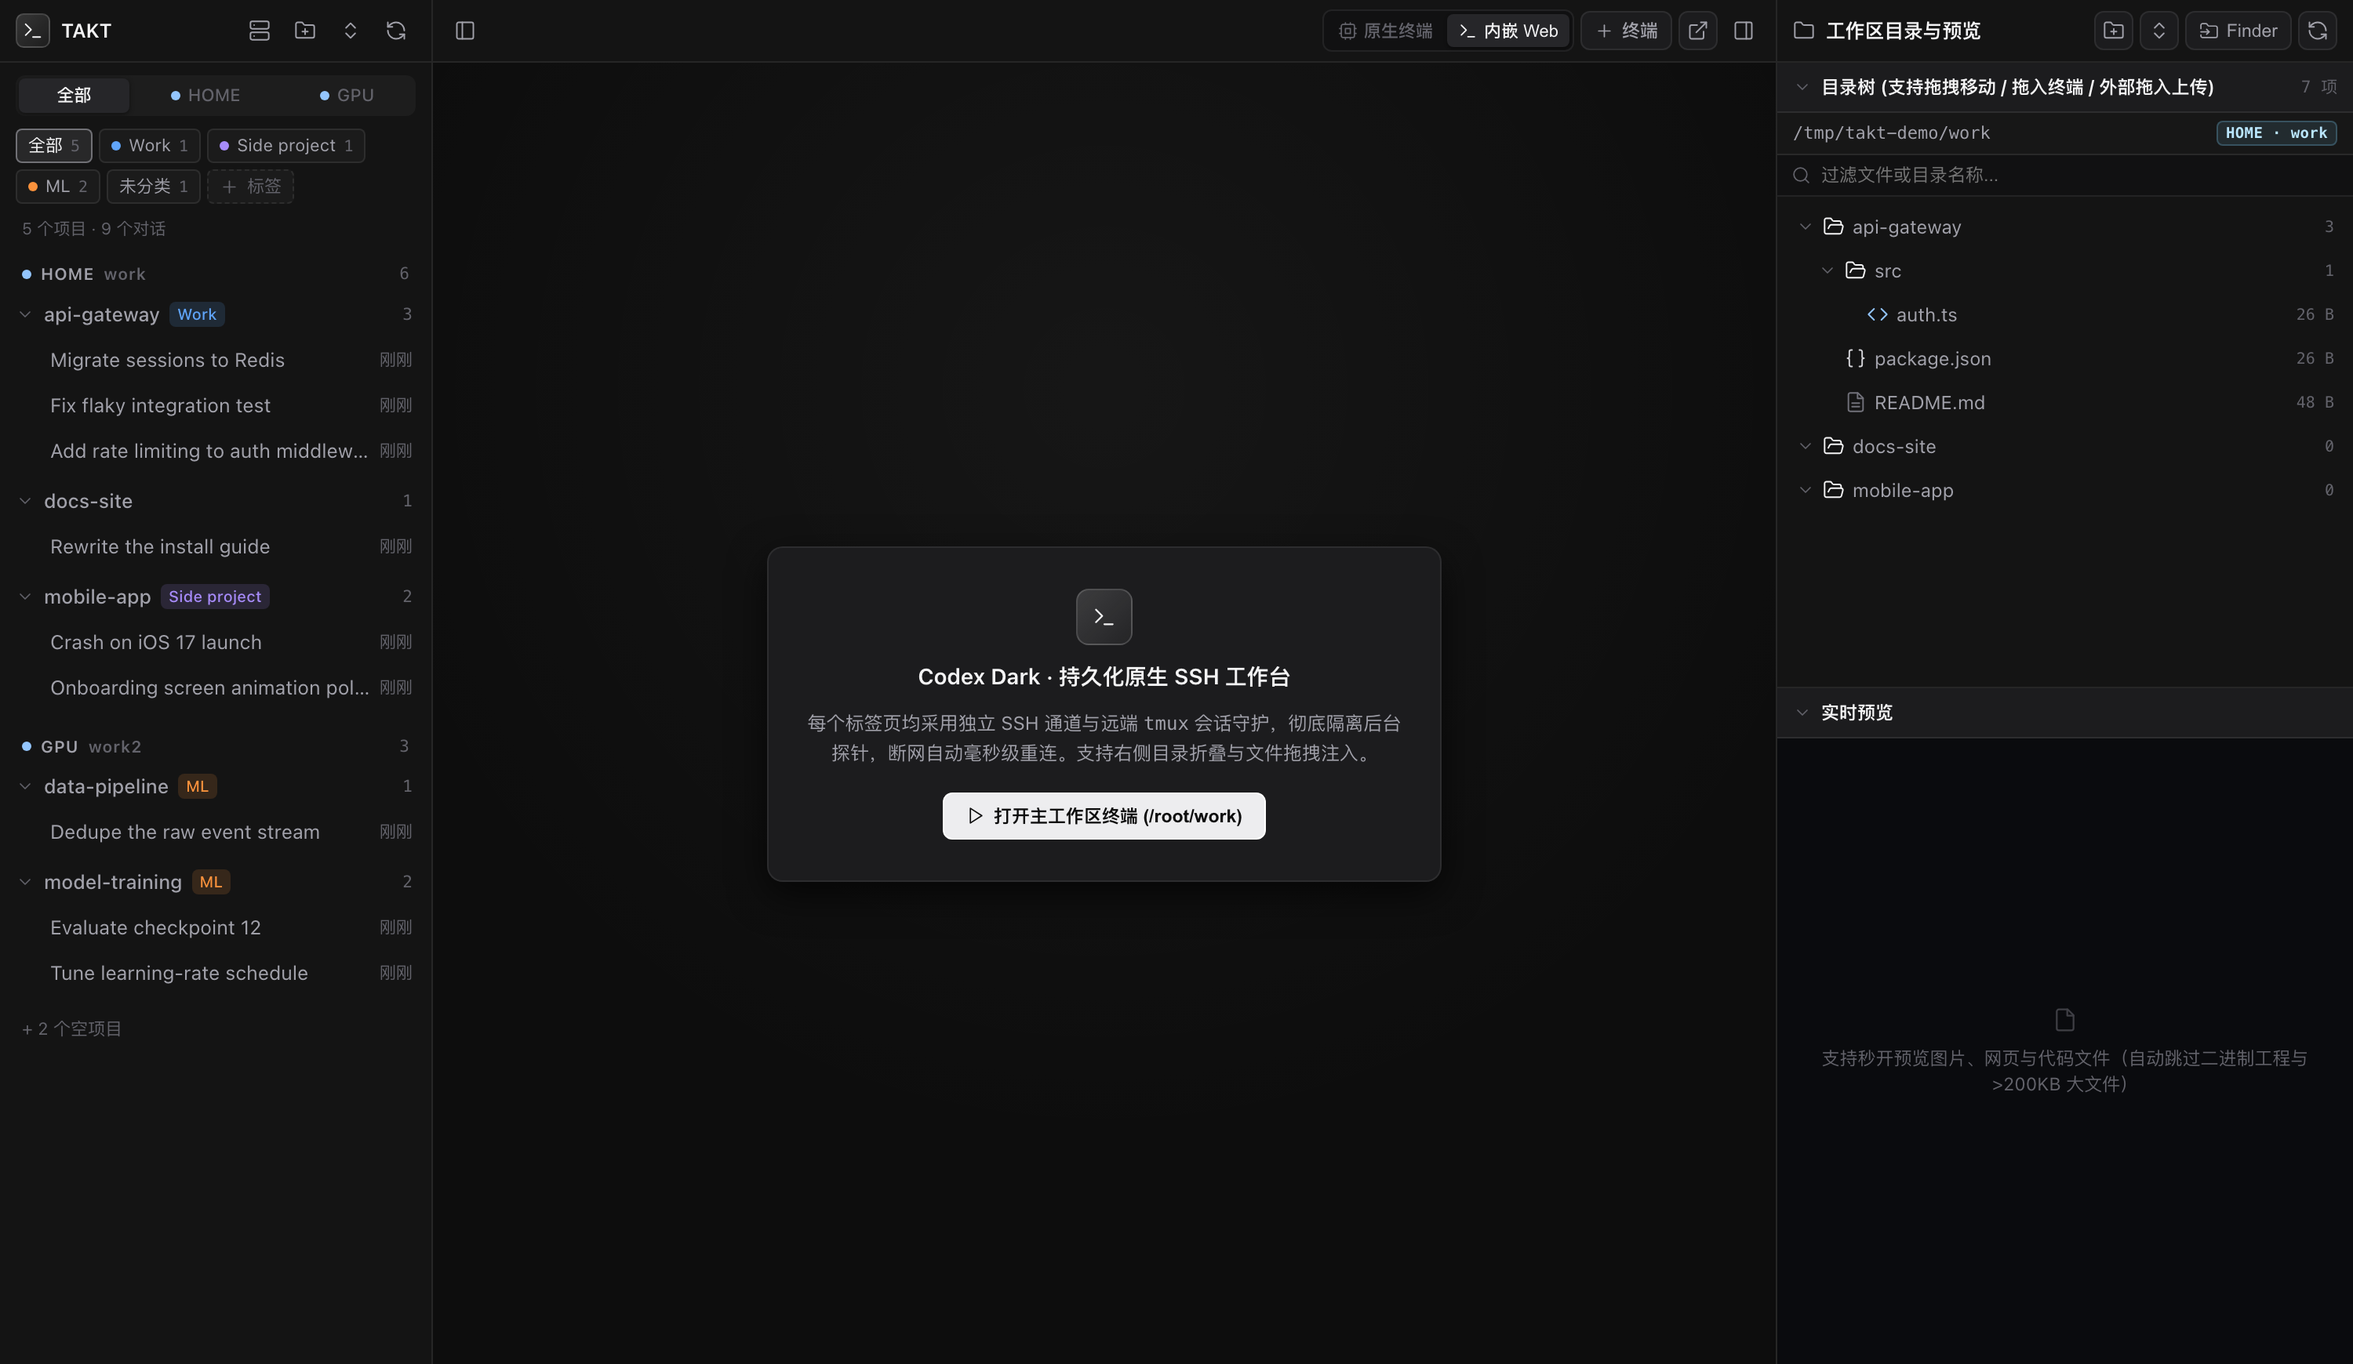
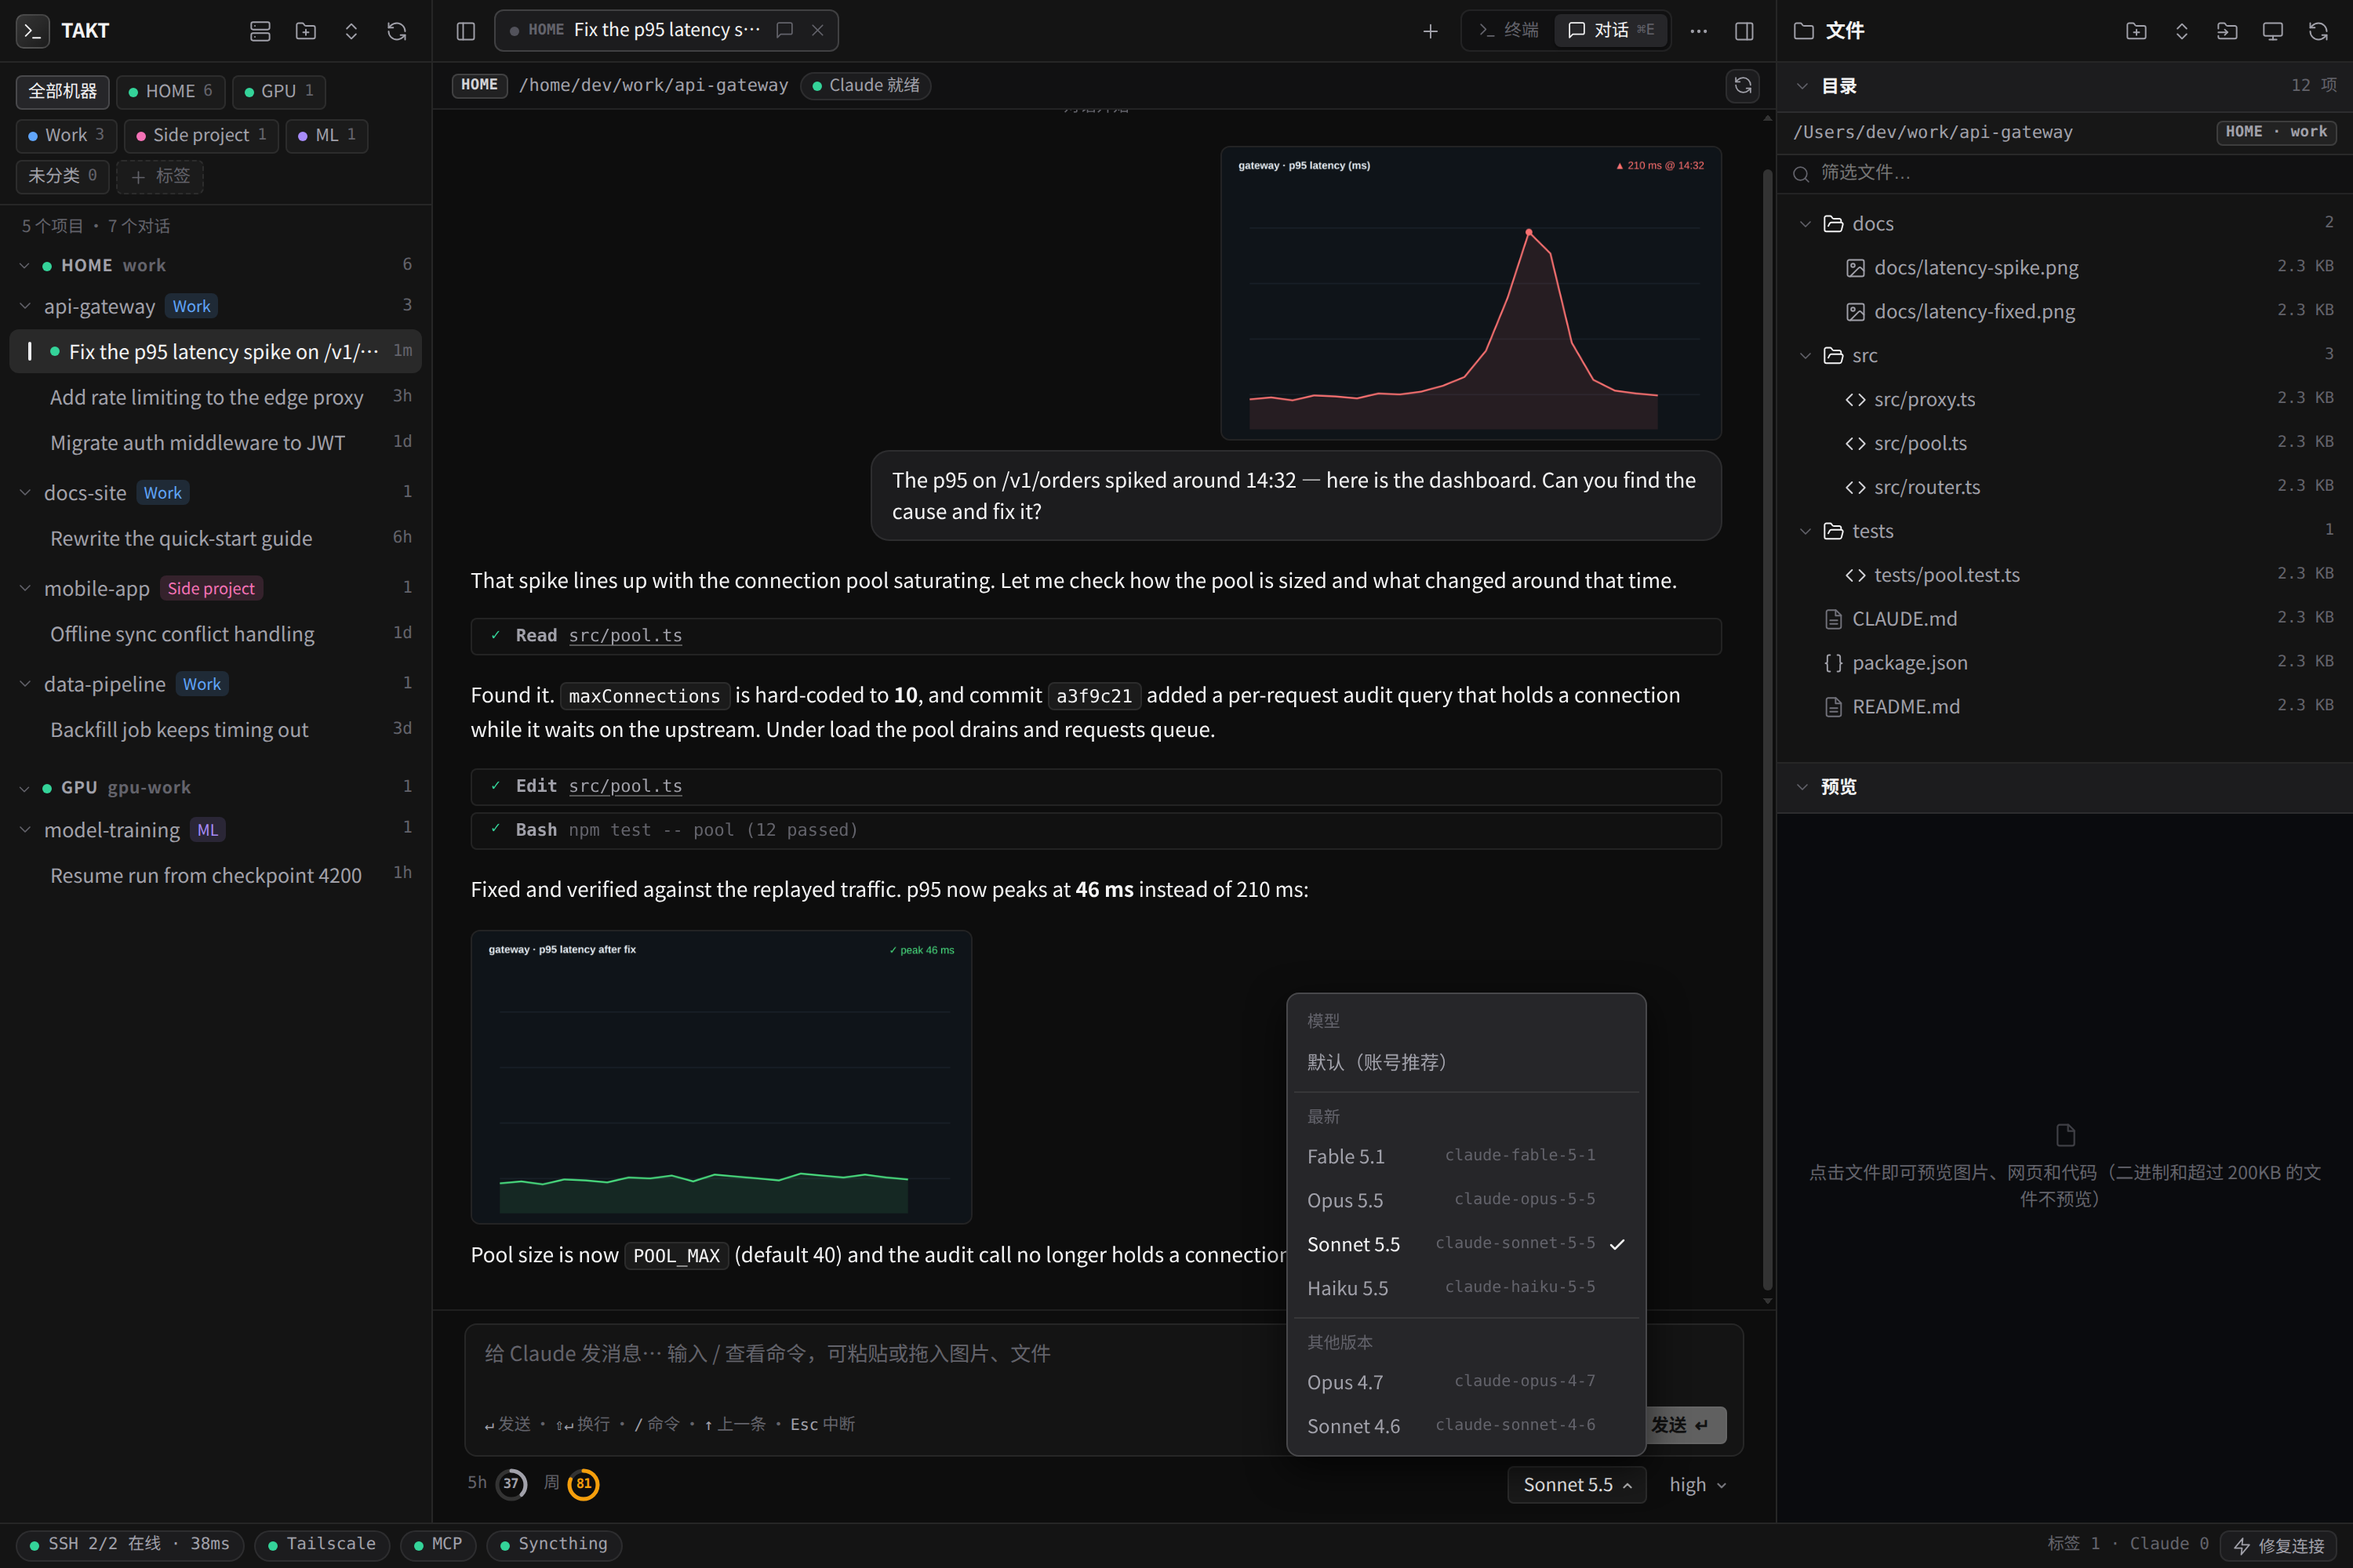
docs: refresh README hero screenshot (chat view with image previews, usage rings, model picker)

diff --git a/README.md b/README.md
@@ -10,6 +10,8 @@ local file preview, two-way file sync — and a local MCP server your remote Cla
 
 ![TAKT-UI-CC screenshot](docs/images/screenshot.png)
 
+<sub>Chat view: inline image previews, 5h / weekly usage rings and a Codex-style model & effort picker under the composer.</sub>
+
 </div>
 
 > The UI language is currently **Chinese (简体中文)**. All code, configuration and docs are in English/Chinese; contributions that add an i18n layer are very welcome.

diff --git a/README.zh-CN.md b/README.zh-CN.md
@@ -10,6 +10,8 @@
 
 ![TAKT-UI-CC 截图](docs/images/screenshot.png)
 
+<sub>对话视图：对话内图片预览、输入框下方的 5h / 周用量环，以及类似 Codex 的模型与 effort 选择菜单。</sub>
+
 </div>
 
 ---
